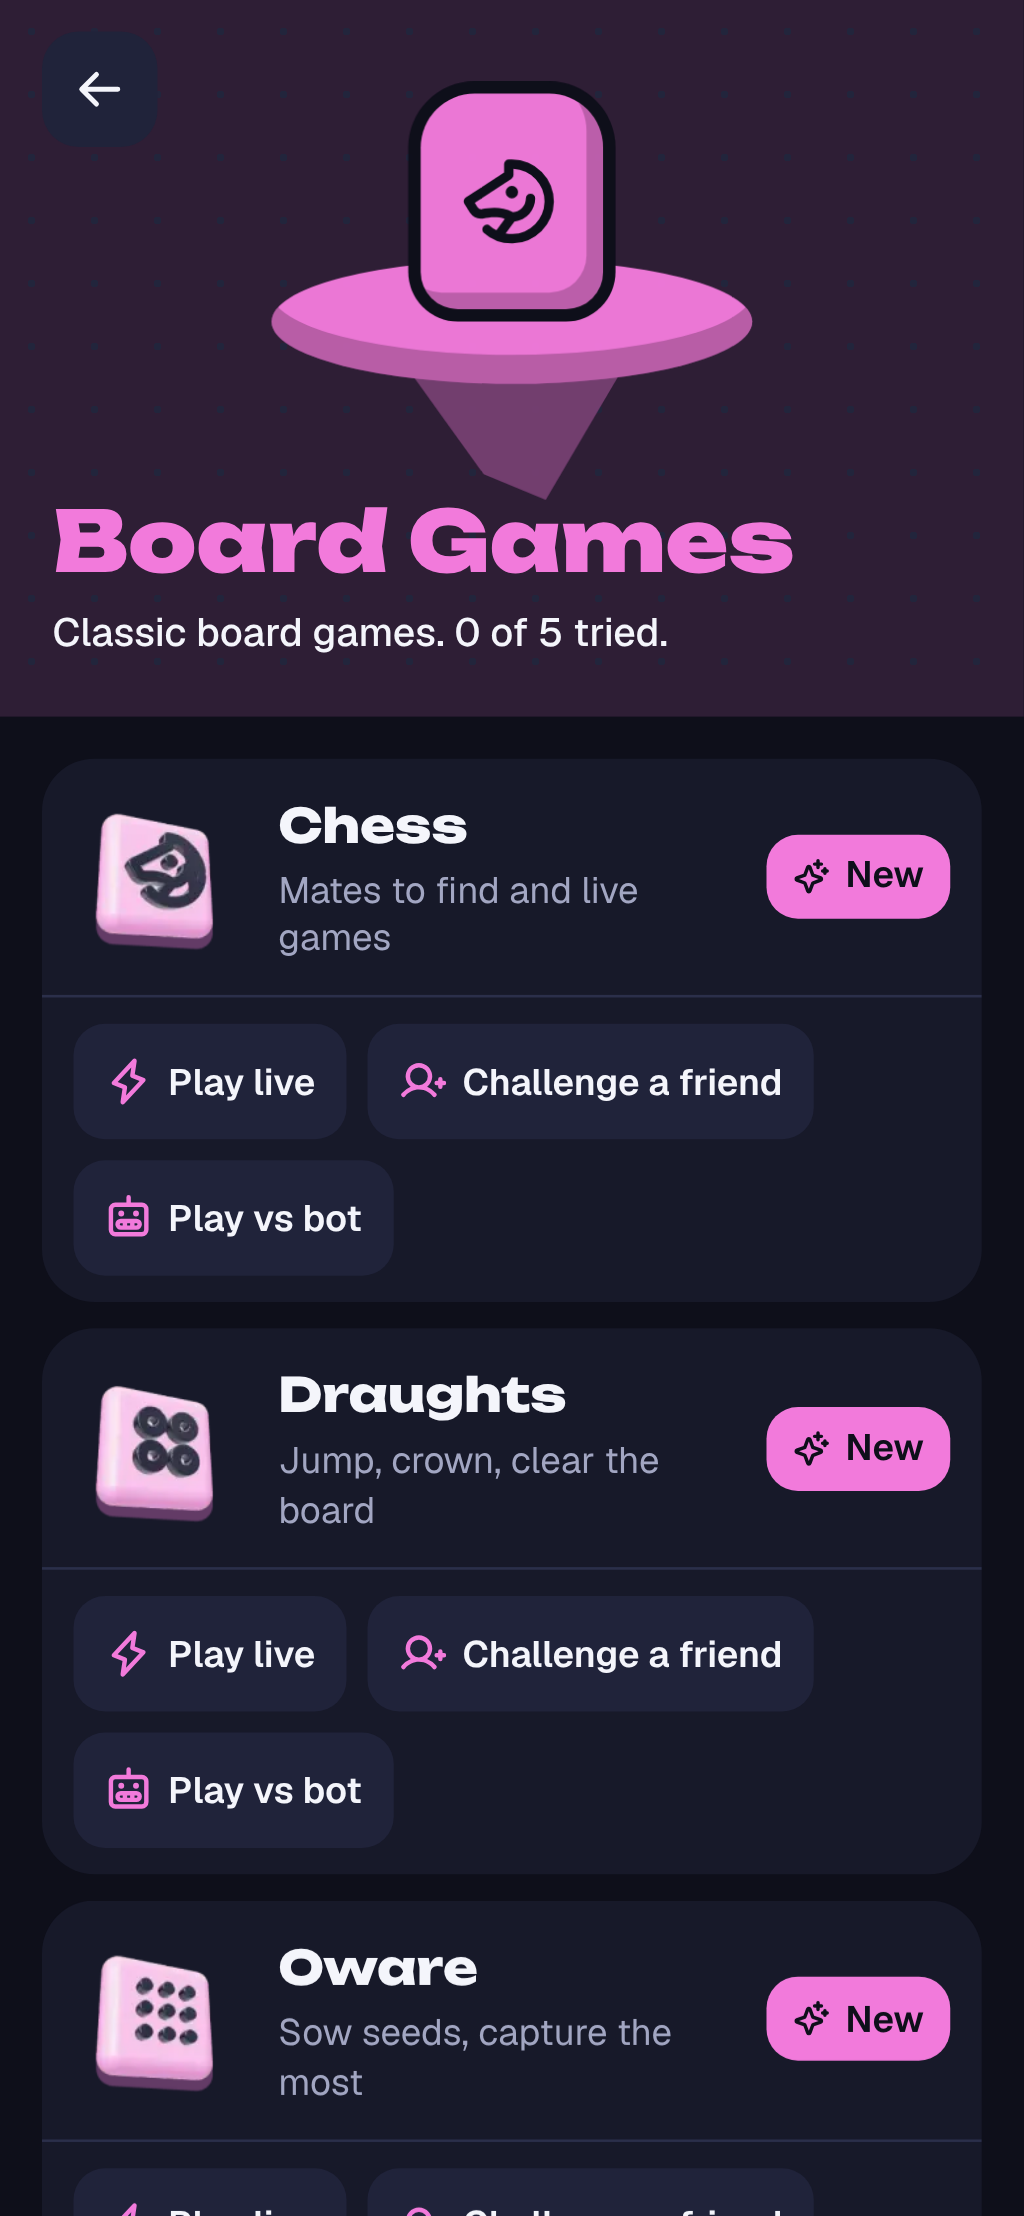
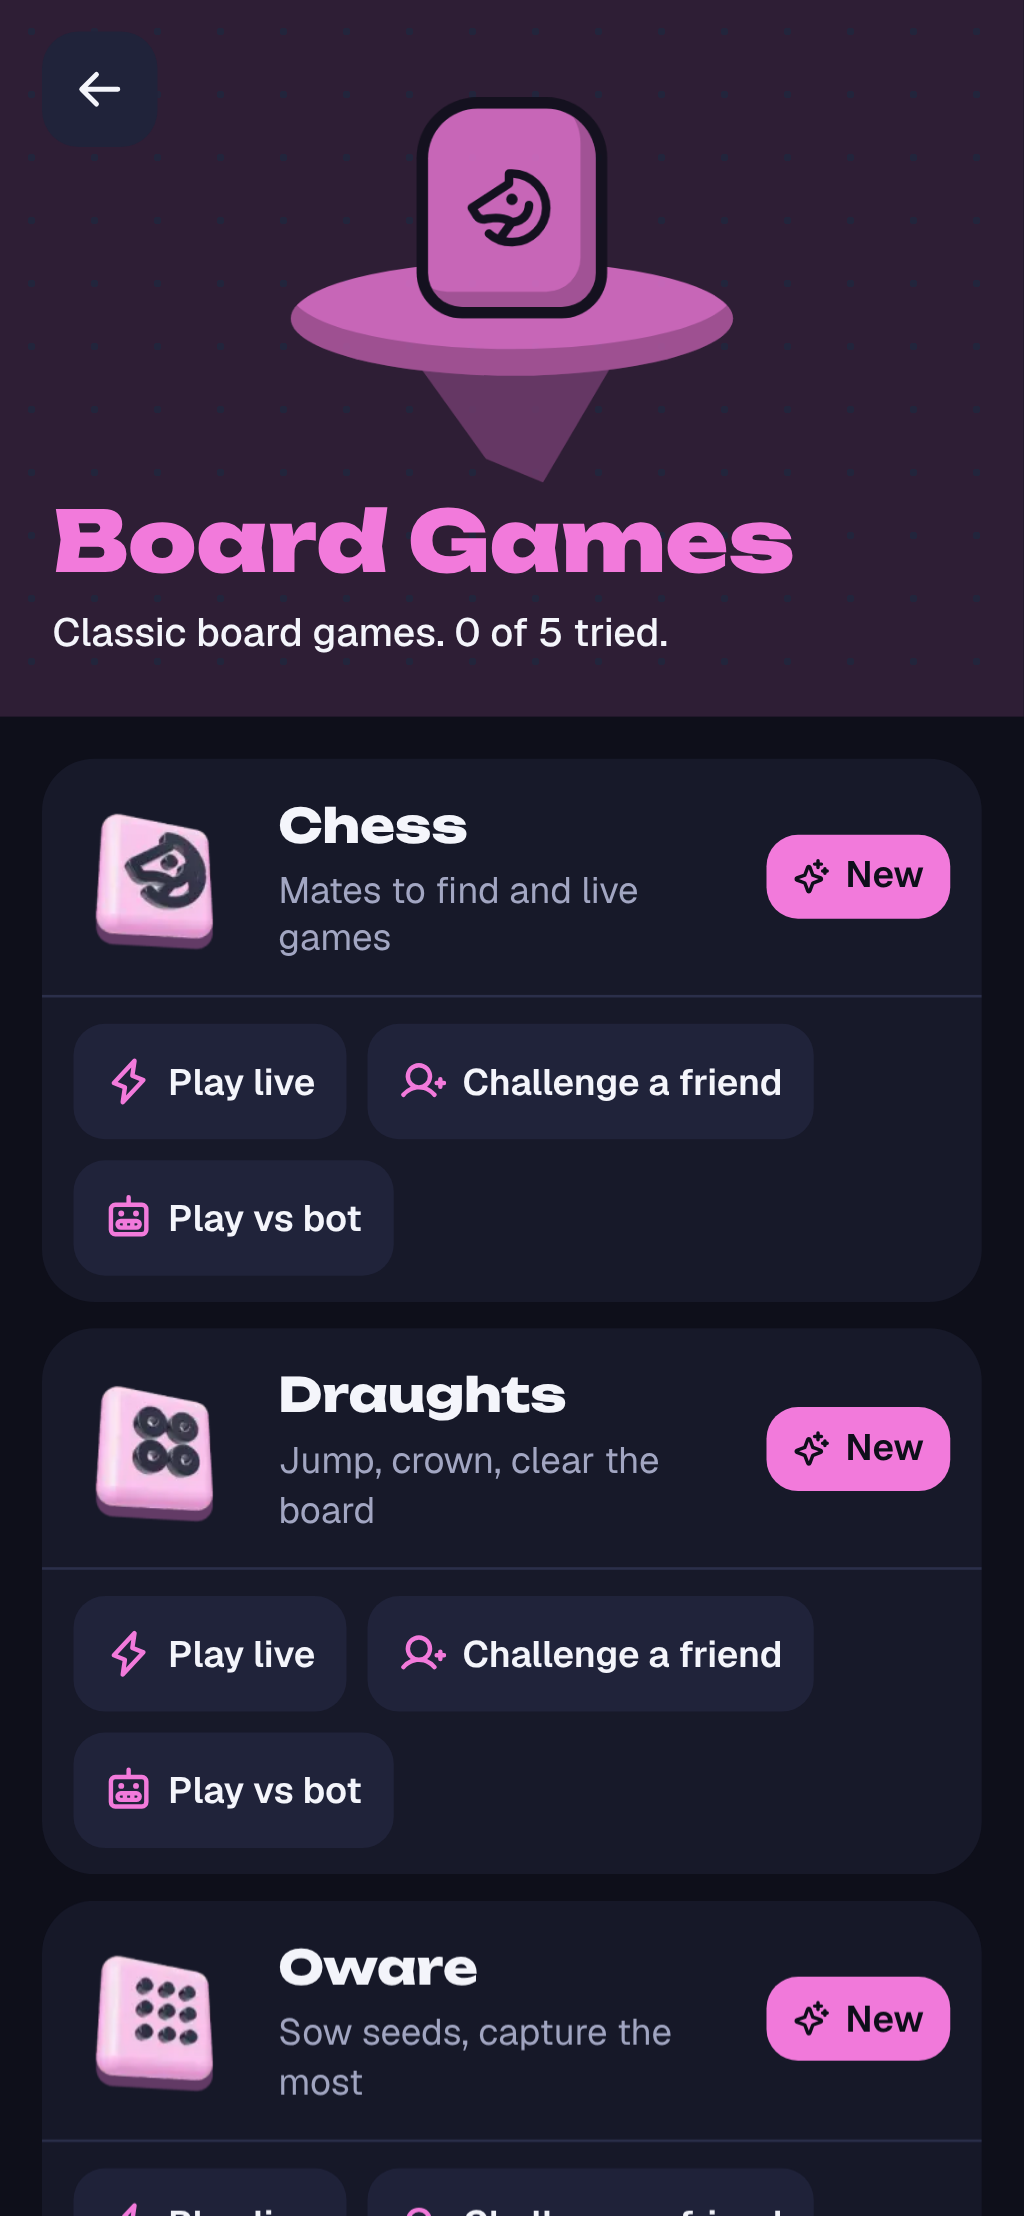
1.8.0: four groups, Quickfire judged on the server, live Draw It and party rewards, SPIL and portfolio links, quests fix

Changed region(s): [[0.25, 0.0311, 0.75, 0.2491], [0.1562, 0.9964, 0.1875, 1.0]]

diff --git a/docs/qa/QA_REPORT.md b/docs/qa/QA_REPORT.md
@@ -231,3 +231,10 @@ Found and fixed in this pass:
 Local production build. Unit 142 files, 1382 tests; pgTAP all pass; API 15 files, 162 tests; E2E, realtime and
 visual (mobile and desktop) all pass after moving the visual and perf onboarding to the birth month and year step.
 Release order: the birth month/year migration is applied to preview and production before the code deploys.
+
+## 1.8.0 integration pass (2 November 2026)
+
+Local production build. Unit 147 files, 1440+ tests; API 17 files, 172 tests; E2E, realtime and visual (mobile and
+desktop) all pass. pgTAP passes on a fresh database (CI); locally `085_league_min_group` is sensitive to hundreds of
+leftover test players and is not a product issue. Found and fixed: missing 3D tiles for the promoted games, and the
+"different worlds" quests that never counted.

diff --git a/CHANGELOG.md b/CHANGELOG.md
@@ -1,6 +1,6 @@
 # Changelog
 
-## Unreleased
+## 1.8.0 (2 November 2026)
 
 ### Fixes
 
